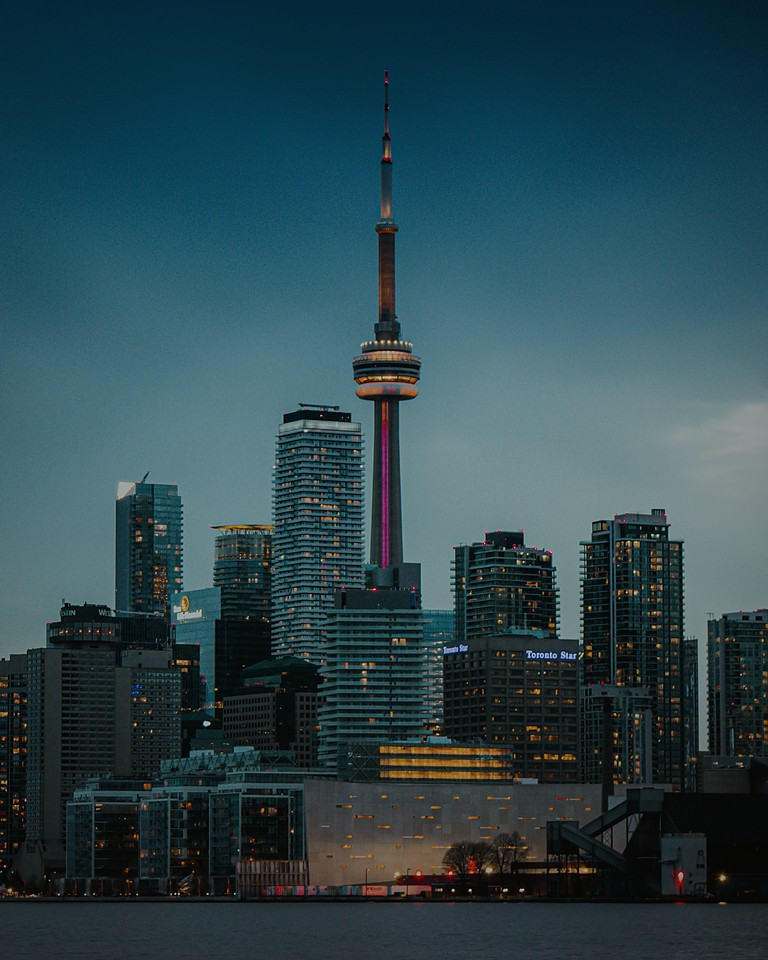
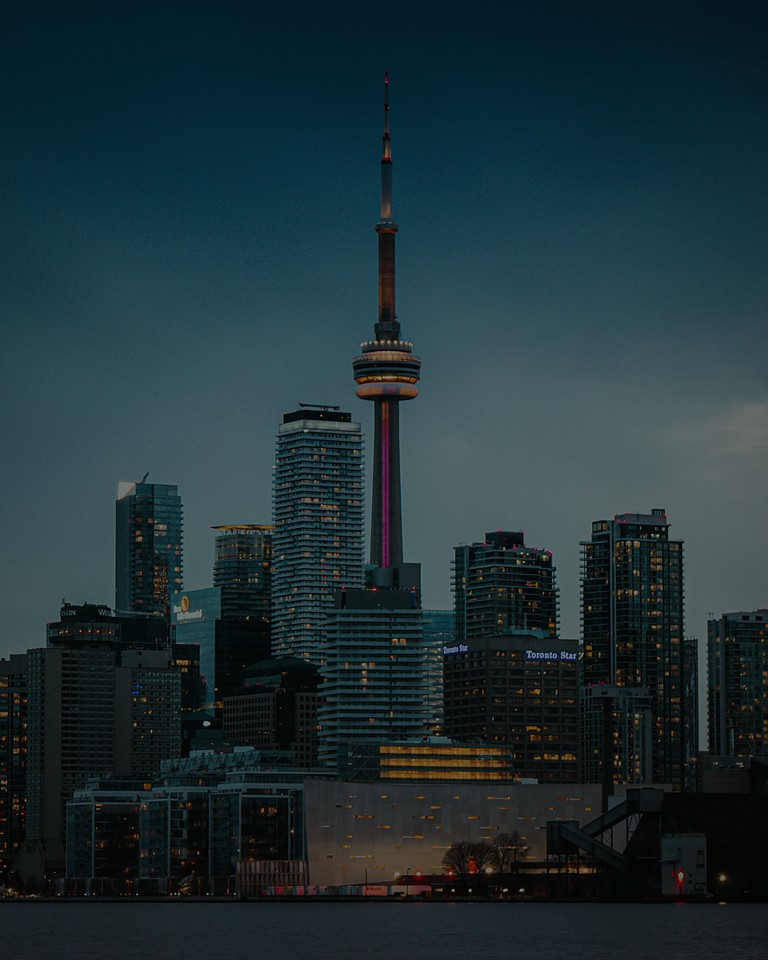
Take the /about photos down to the page's own light level
They were solved to a mean luminance of 63 while the page itself sits
around 14, so they read as lit panels stuck onto a dark room rather than
as part of it. Target is now 44.

The multipliers that get there differ wildly by source — 0.47 for the
skyline, 0.82 for the court, 0.64 for the cars — which is the reason the
target is a measurement rather than a fixed setting. Measured after
encoding: 44.3 / 44.8 / 44.8.

diff --git a/components/notebook/split/AboutPage.tsx b/components/notebook/split/AboutPage.tsx
@@ -67,11 +67,16 @@ type PolaroidSlot = {
 //
 // All three are graded to the same place rather than by the same
 // amounts — brightness is solved per photo to land each one on a mean
-// luminance of ~63, then contrast up slightly, colour drained slightly,
+// luminance of ~44, then contrast up slightly, colour drained slightly,
 // a nudge toward blue, and a vignette. Three sources shot in three
 // different lights therefore read as one wall of pictures instead of a
-// stock grab bag. (The badminton court needed brightening, at 1.17; the
-// skyline needed pulling down to 0.67.)
+// stock grab bag.
+//
+// 44 rather than the 63 they started at: the page itself sits around
+// 14, so photos in the 60s read as lit panels stuck onto a dark room
+// rather than as part of it. The multipliers that get there differ
+// wildly by source (0.47 for the skyline, 0.82 for the court), which is
+// exactly why the target is a measurement rather than a setting.
 //
 // Provenance, since it differs:
 //   downtown, late     Unsplash, Juan Rojas — Unsplash License, no
